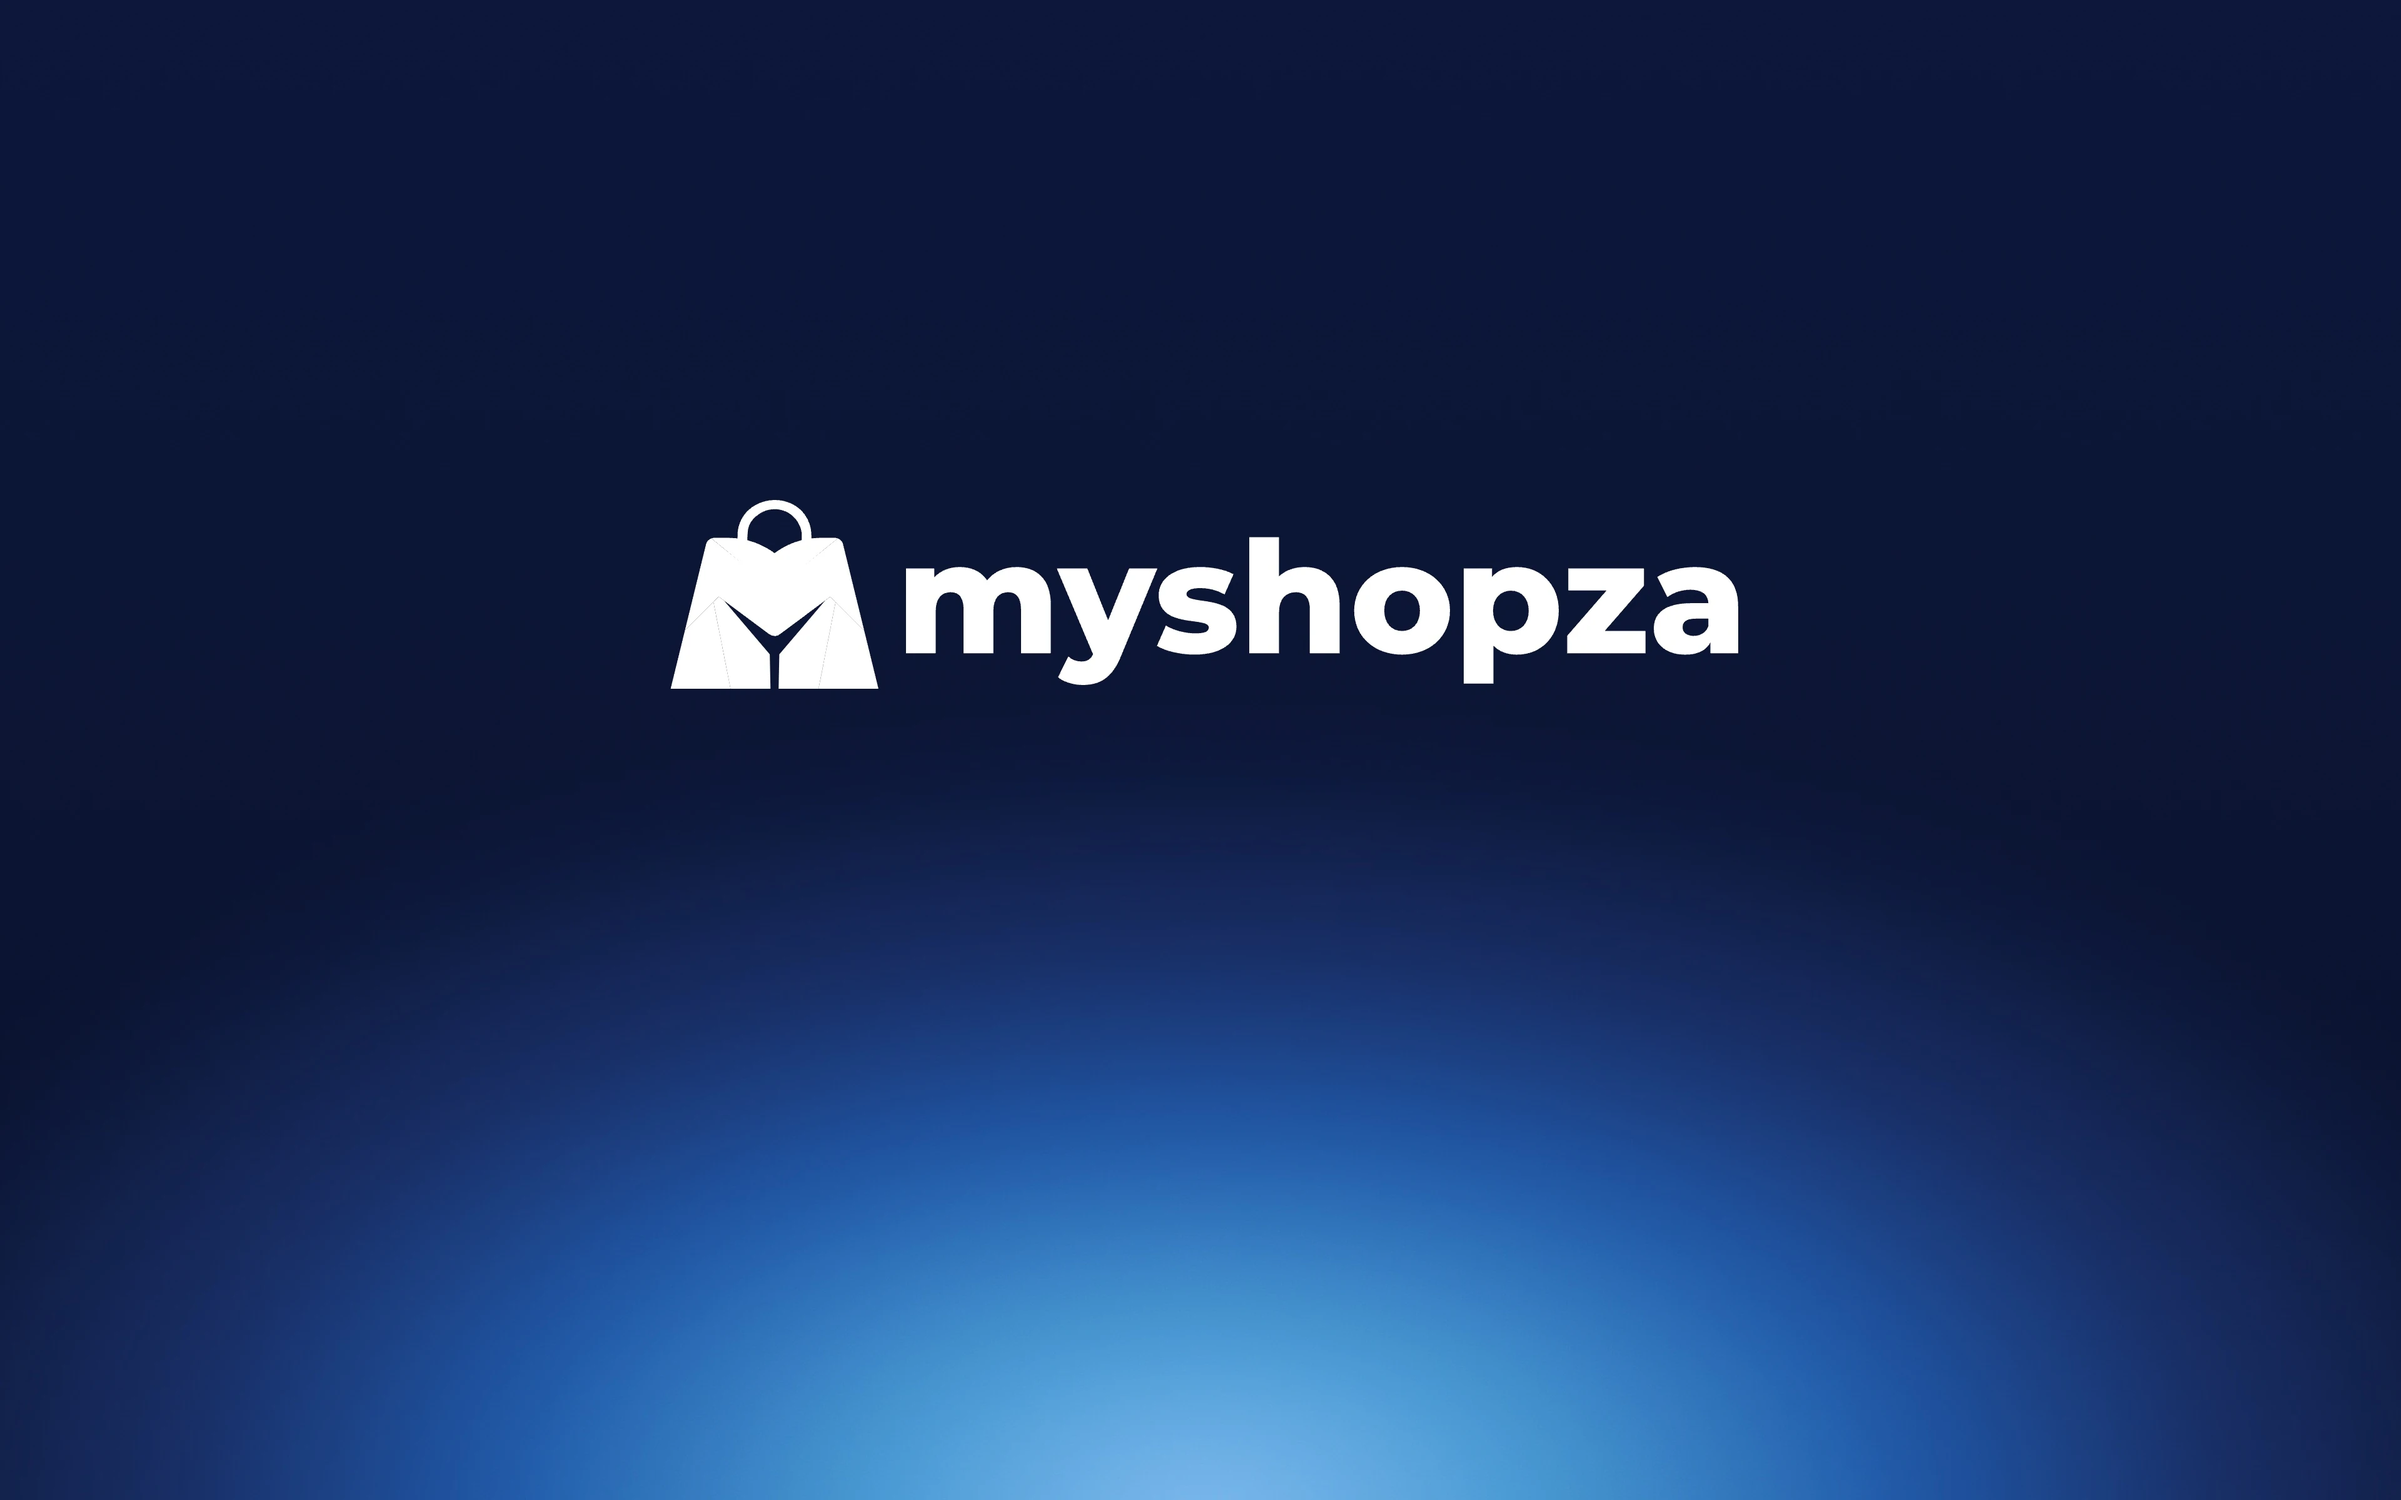
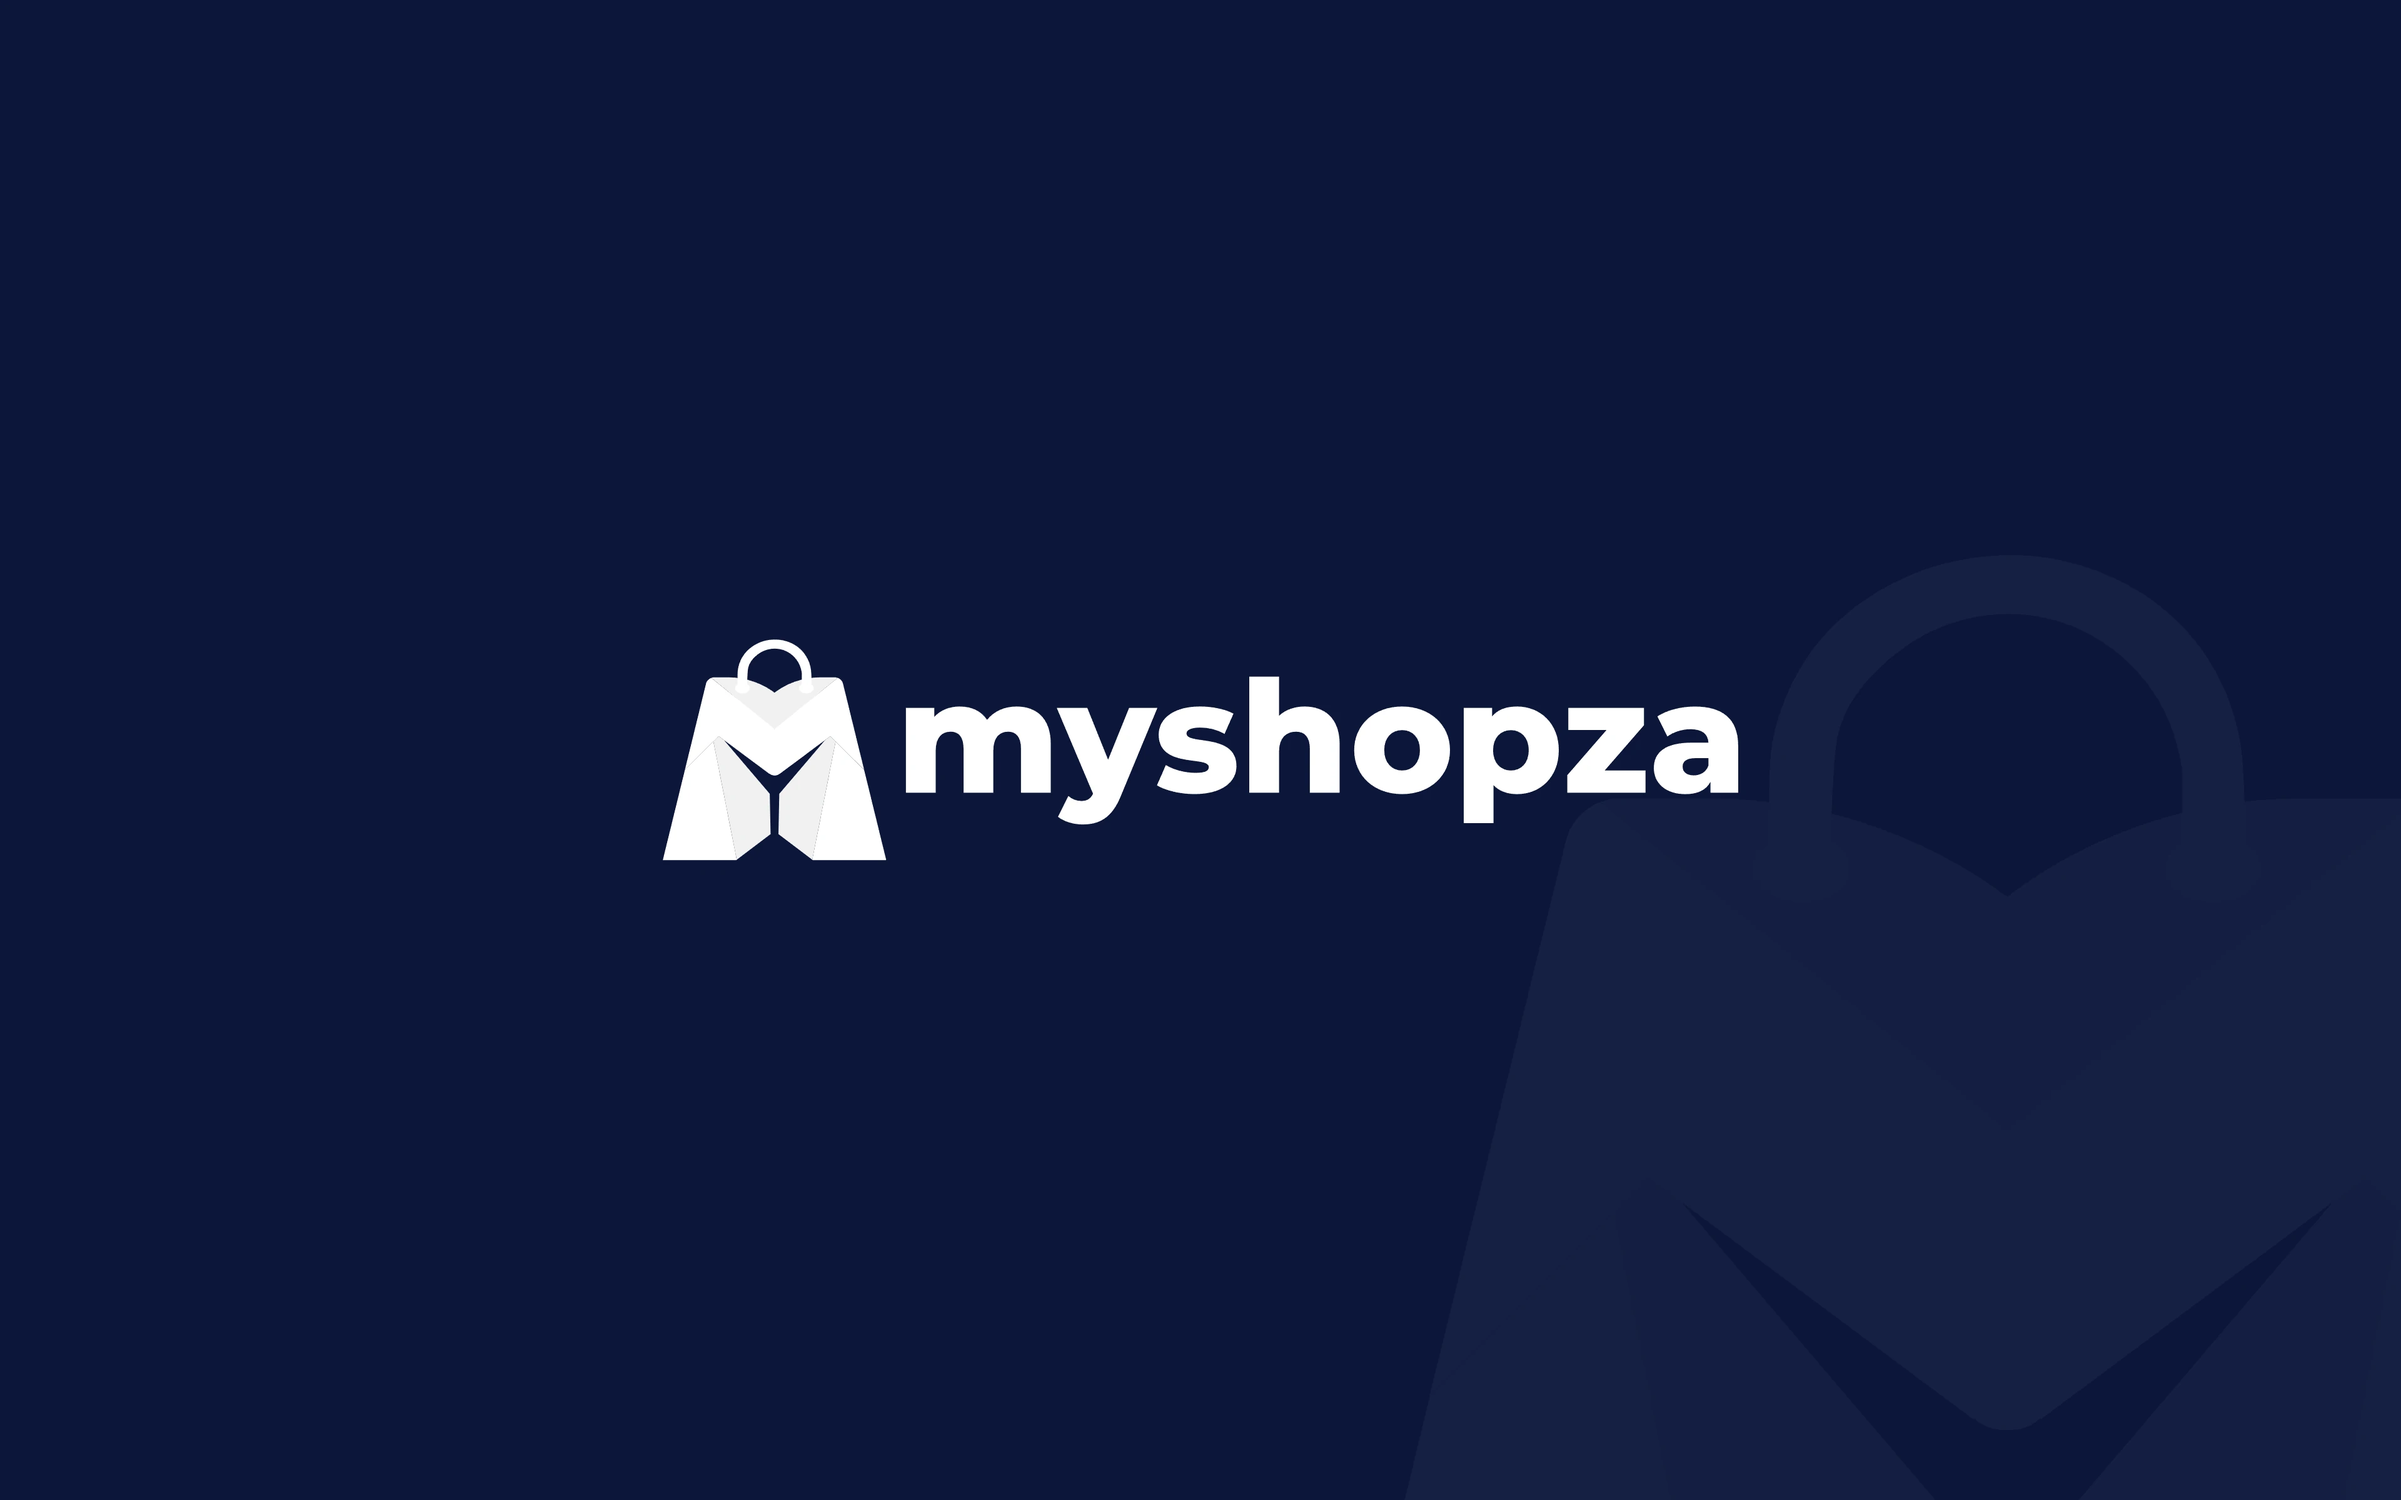
Auto-sync: update 8 file(s)
assets/images/projects/myshopza/cover-info.json assets/images/projects/myshopza/cover.webp assets/images/projects/myshopza/cover@1400.webp assets/images/projects/myshopza/cover@2000.webp assets/images/projects/myshopza/cover@640.webp

diff --git a/projects/myshopza.html b/projects/myshopza.html
@@ -123,7 +123,7 @@ symbol .mz-wm .mz-b,symbol .mz-wm .mz-n{fill:var(--lt,#22428d)}symbol .mz-wm .mz
       <p class="cs-outcome"><b>Outcome</b> A logo for Myshopza's e-commerce software: a shopping bag that also reads as an M, delivered with light and dark lockups, app icons and favicons.</p>
       <div class="cs-meta"><span>Logo</span><span>Brand identity</span><span>UX/UI design</span></div>
     </section>
-    <div class="cs-shot" data-slide style="view-transition-name:shot-myshopza;view-transition-class:shot"><img src="/assets/images/projects/myshopza/cover.webp" width="3840" height="2400" alt="The white Myshopza logo on deep navy, above a soft blue glow" fetchpriority="high" decoding="sync" /></div>
+    <div class="cs-shot" data-slide style="view-transition-name:shot-myshopza;view-transition-class:shot"><img src="/assets/images/projects/myshopza/cover.webp" width="3840" height="2400" alt="The white Myshopza logo on plain deep navy, with a faint shopping-bag mark watermark" fetchpriority="high" decoding="sync" /></div>
 
     <!-- The brand presentation -->
     <div class="mz-deck mz-x"><section class="mz-s mz-auto mz-ov"><div class="mz-in"><span class="mz-pill">Project overview</span>
